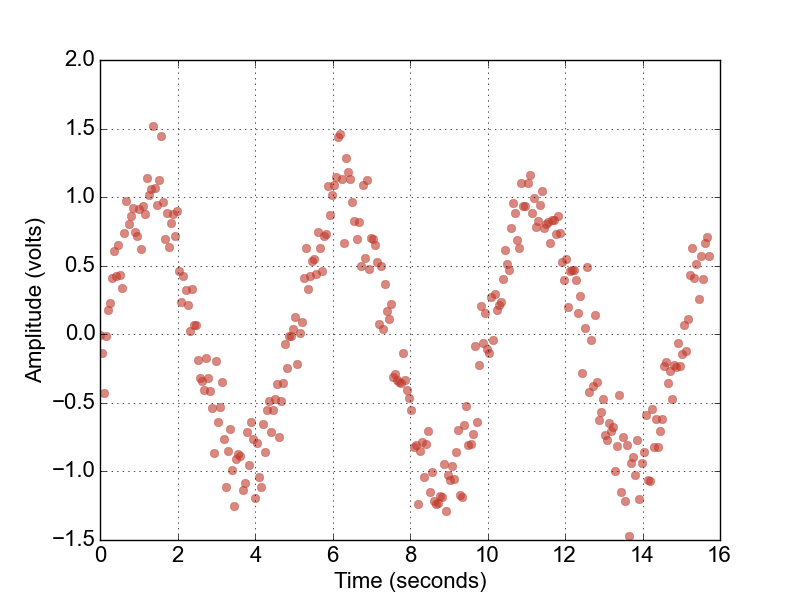
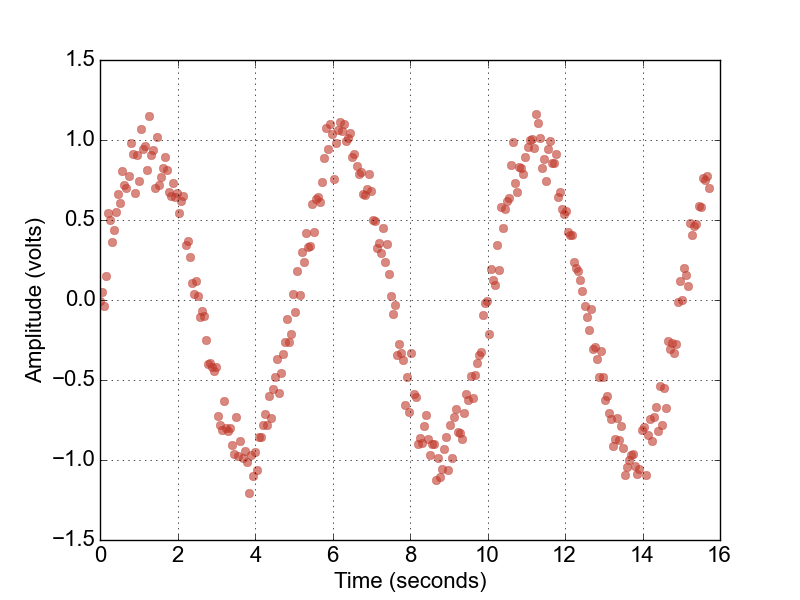
Updated README.

diff --git a/scripts/fit_examples.py b/scripts/fit_examples.py
@@ -11,7 +11,8 @@ if __name__ == '__main__':
     # Create some noisy data.
     t = np.linspace(0,5*np.pi, 300)
     t_new = np.linspace(-pi, 6*np.pi, 400)
-    y = np.sin(2*np.pi/5*t) + 0.2 * np.random.randn(len(t))
+    noise_amplitude = 0.1
+    y = np.sin(2*np.pi/5*t) + noise_amplitude * np.random.randn(len(t))
     f = Fit(t, 15, reg_coefs=[0,1e-3,0e-2])
 
     # Perform the fit to the data.

diff --git a/README.md b/README.md
@@ -75,7 +75,8 @@ The type of basis to use for the fitting. May have values of ```legendre```,
 ##### reg_coefs — array_like
 
 A list or array of three regularization coefficients for penalizing the
-magnitude of the fit and its first and second derivatives, respectively.
+magnitude of the fit and its first and second derivatives, respectively. The
+default value is ```reg_coefs=[0.0, 0.0, 0.0]```
 
 
 #### Methods
